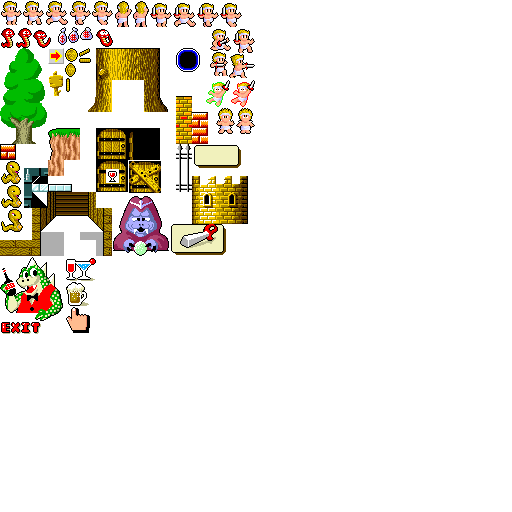
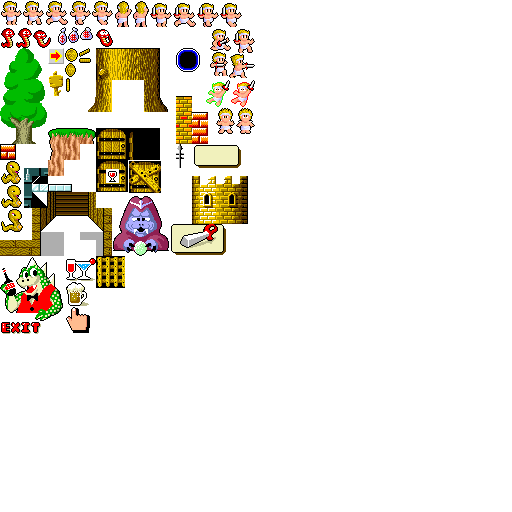
wbml

Changed region(s): [[0.1875, 0.5, 0.25, 0.5625], [0.3438, 0.2812, 0.375, 0.375], [0.1562, 0.25, 0.1875, 0.2812]]

diff --git a/games/wbml/data/scripts.py b/games/wbml/data/scripts.py
@@ -38,16 +38,80 @@ def setup2():
     example.play(s)
     #pane()
 
-def setup3():
+def setup_bar():
+    ra = mopy.monkey.engine.room_args
+    gl = mopy.monkey.engine.data.globals
+    bonus_left = Entity()
+    bonus_left.model = gl.bonus_list[ra[0]]['gfx']
+    bonus_left.pos = (2.5*16, 10.2*16, 0.11)
+    example.get('main').add(bonus_left)
+    bonus_right = Entity()
+    bonus_right.model = gl.bonus_list[ra[2]]['gfx']
+    bonus_right.pos = (9.5*16, 10.2*16, 0.11)
+    example.get('main').add(bonus_right)
+
+
+
+
     from wbml.data.actions import WBM
-    s = Script()
-    s.seq([WBM('$msg/5')])
-    example.play(s)
+
+    # check if player has enough gold to buy items
+    min_cost = min(int(ra[1]), int(ra[3]))
+    if gl.gold < min_cost:
+        s = Script()
+        s.seq([WBM('$msg/8'), act.ChangeRoom('citywl')])
+        example.play(s)
+    else:
+        mopy.monkey.engine.data.globals.pos = [(2, 7.625, 0.1), (5.25, 7.625, 0.1), (9.5, 7.625, 0.1)]
+        mopy.monkey.engine.data.globals.cpos = 1
+        s = Script()
+        s.seq([WBM('$msg/5')])
+        example.play(s)
     #pane()
 
 
-def cazzo():
-    print ('cazzone!?')
+def hand_left():
+    mopy.monkey.engine.data.globals.cpos = max(0,mopy.monkey.engine.data.globals.cpos-1)
+    p = mopy.monkey.engine.data.globals.pos[mopy.monkey.engine.data.globals.cpos]
+    example.get('hand').setPosition(p[0] * 16, p[1] * 16, p[2] * 16)
+
+
+def hand_right():
+    mopy.monkey.engine.data.globals.cpos = min(2,mopy.monkey.engine.data.globals.cpos+1)
+    p = mopy.monkey.engine.data.globals.pos[mopy.monkey.engine.data.globals.cpos]
+    example.get('hand').setPosition(p[0] * 16, p[1] * 16, p[2] * 16)
+
+def hand_select():
+    from wbml.data.actions import WBM
+    gl = mopy.monkey.engine.data.globals
+    selected = mopy.monkey.engine.data.globals.cpos
+    s = Script()
+    if selected == 1:
+        s.seq([act.SetActive(tag='hand', value=False),
+            WBM('$msg/6'), act.SetVariable('globals.start_position', 2), act.ChangeRoom('citywl')])
+    else:
+        bonus_picked = None
+        cost = 0
+        msg = None
+        if selected == 0:
+            bonus_picked = mopy.monkey.engine.room_args[0]
+            cost = int(mopy.monkey.engine.room_args[1])
+            msg = mopy.monkey.engine.room_args[4]
+        else:
+            bonus_picked = mopy.monkey.engine.room_args[2]
+            cost = int(mopy.monkey.engine.room_args[3])
+            msg = mopy.monkey.engine.room_args[5]
+        if mopy.monkey.engine.data.globals.gold >= cost:
+            mopy.monkey.engine.data.globals.gold -= cost
+            bonus =gl.bonus_list[bonus_picked]
+            bonus['callback']()
+            s.seq([
+                act.SetActive(tag='hand', value=False),
+                WBM(msg),
+                act.SetVariable('globals.start_position', 2),
+                act.ChangeRoom('citywl')])
+    example.play(s)
+
 
 def set_warp(player, warp, x, y):
     info = warp.getInfo()
@@ -153,17 +217,20 @@ def pane():
 
 
 def enter_door(x):
-    print('CIAO')
-
     if mopy.monkey.engine.data.globals.active_warp is not None:
         warp_id =mopy.monkey.engine.data.globals.active_warp
         mopy.monkey.engine.data.globals.active_warp = None
         door_info = mopy.monkey.engine.data.globals.doors[warp_id]
         s = Script()
+        args = door_info.get('args',None)
+        print('args=' +str(args))
         s.seq([
             act.SetState(tag='player', state='knock'),
             act.Delay(sec=0.1),
             act.Animate(tag='door_' + str(warp_id), anim='open'),
-            act.ChangeRoom(room=door_info['room'])
+            act.ChangeRoom(room=door_info['room'], args=args)
         ])
         example.play(s)
+
+def panepippo():
+    print('ciao')

diff --git a/src/monkey/model/factory.cpp b/src/monkey/model/factory.cpp
@@ -95,36 +95,63 @@ std::shared_ptr<Model> ModelFactory::_tiled(const ITab & t) {
     auto data = t.get<std::vector<int>>("data");
     size_t n = 0;
     size_t v = 0;
-    for (int j = 0; j < size[1]; ++j) {
-        for (int i = 0; i < size[0]; ++i) {
-            if (data[n] == -1) {
-                n += 1;
-                continue;
-            }
-            bool fliph = false;
-            if (data[n] == -2) {
-                // flip horizontally next tile
-                n++;
-                fliph = true;
-
-            }
-            float tx0 = data[n] * tw;
-            float tx1 = (data[n] + 1) * tw;
-            if (fliph) std::swap(tx0, tx1);
-            verts.emplace_back(i * tileWidth, j * tileHeight, 0, tx0, (data[n+1] + 1) * th, 1, 1, 1, 1);
-            verts.emplace_back((i+1) * tileWidth, j * tileHeight, 0, tx1, (data[n+1] +1) * th, 1, 1, 1, 1);
-            verts.emplace_back((i+1) * tileWidth, (j + 1) * tileHeight, 0, tx1, data[n+1] * th, 1, 1, 1, 1);
-            verts.emplace_back(i * tileWidth, (j+1) * tileHeight, 0, tx0, data[n+1] * th, 1, 1, 1, 1);
-            indices.push_back(v);
-            indices.push_back(v+1);
-            indices.push_back(v+2);
-            indices.push_back(v+2);
-            indices.push_back(v+3);
-            indices.push_back(v);
-            v += 4;
-            n += 2;
+    //for (int j = 0; j < size[1]; ++j) {
+    //    for (int i = 0; i < size[0]; ++i) {
+    int i = 0;
+    int j = 0;
+    int count = 0;
+    int tileCount = size[0] * size[1];
+    while (count < tileCount) {
+    	if (data[n] == -1) {
+        	n += 1;
+        	count++;
+			i++;
+			if (i >= size[0]) {
+				i = 0;
+				j++;
+			}
+            continue;
+    	}
+        bool fliph = false;
+        int repeat = 1;
+        if (data[n] == -2) {
+        	// flip horizontally next tile
+           	n++;
+           	fliph = true;
         }
+
+        if (data[n] == -3) {
+          	n++;
+           	repeat = data[n++];
+        }
+
+        for (int k = 0; k < repeat; k++) {
+			float tx0 = data[n] * tw;
+			float tx1 = (data[n] + 1) * tw;
+			if (fliph) std::swap(tx0, tx1);
+			verts.emplace_back(i * tileWidth, j * tileHeight, 0, tx0, (data[n + 1] + 1) * th, 1, 1, 1, 1);
+			verts.emplace_back((i + 1) * tileWidth, j * tileHeight, 0, tx1, (data[n + 1] + 1) * th, 1, 1, 1, 1);
+			verts.emplace_back((i + 1) * tileWidth, (j + 1) * tileHeight, 0, tx1, data[n + 1] * th, 1, 1, 1, 1);
+			verts.emplace_back(i * tileWidth, (j + 1) * tileHeight, 0, tx0, data[n + 1] * th, 1, 1, 1, 1);
+			indices.push_back(v);
+			indices.push_back(v + 1);
+			indices.push_back(v + 2);
+			indices.push_back(v + 2);
+			indices.push_back(v + 3);
+			indices.push_back(v);
+			v += 4;
+			// increase x
+			i++;
+			if (i >= size[0]) {
+				i = 0;
+				j++;
+			}
+			count++;
+        }
+        n += 2;
+
     }
+
     mesh->Init(verts, indices);
     return std::make_shared<Model>(mesh);
 

diff --git a/games/wbml/data/factories.py b/games/wbml/data/factories.py
@@ -189,9 +189,12 @@ def bg(args):
 
 def trunk(args):
     door = args.get('door')
+    model = args.get('model', 'model.trunk')
+    width = args.get('width', 6)
+    xs = (width - 4)/2
     tag= 'door_' + str(door)
     e = Entity()
-    e.model = 'model.trunk'
+    e.model = model
     door_info = mopy.monkey.engine.data.globals.doors[door]
     if door_info['open'] == 1:
         anim = door_info['anim']
@@ -201,11 +204,11 @@ def trunk(args):
         'type': '_line',
         'size': [4, 0],
         'pass_thru': True},
-        [1, 4]))
+        [xs, 4]))
 
 
     e.children.append(build_entity({
-        'type': 'bg', 'model': 'sprites.door', 'anim': anim, 'tag': tag}, [2, 0, 0]))
+        'type': 'bg', 'model': 'sprites.door', 'anim': anim, 'tag': tag}, [xs + 1, 0, 0]))
     # check if door is available
     if door_info['open'] == 1:
         coll = Entity()
@@ -216,7 +219,7 @@ def trunk(args):
             mask=mopy.monkey.engine.data.globals.CollisionFlags.player,
             tag=mopy.monkey.engine.data.globals.CollisionTags.door,
             debug=True))
-        coll.pos =[2.5*16, 0, 0]
+        coll.pos =[(xs + 1.5)*16, 0, 0]
         coll.add_component(Info(door_id=door))
 
         e.children.append(coll)

diff --git a/games/mopy/engine.py b/games/mopy/engine.py
@@ -217,10 +217,11 @@ class Engine:
 
     def create_room(self):
         filename = example.dir + '/rooms/' + self.room + '.yaml'
+        print('args=' + str(self.room_args))
         try:
             with open(filename) as f:
                 room2 = yaml.load(f, Loader=yaml.FullLoader)
-                room = mopy.monkey.engine.repl_vars(room2)
+                room = mopy.monkey.engine.repl_vars(room2, self.room_args)
                 rt = room['type']
                 if 'on_start' in room:
                     getattr(self.scripts, room['on_start'])()
@@ -372,6 +373,7 @@ class Engine:
     frame_time = 0.1
     title = ''
     room = ''
+    room_args = None
     previous_room = ''
     lang = ''
     taggen = 0

diff --git a/games/wbml/data/globals.py b/games/wbml/data/globals.py
@@ -3,6 +3,7 @@ import data.scripts as scripts
 
 tiled_pos = True
 tile_size = [16, 16]
+gold = 200
 jump_height = 96
 time_to_jump_apex = 0.5
 a = utils.compute_gravity(jump_height, time_to_jump_apex)
@@ -66,7 +67,12 @@ collision_engine = {
 
 doors = {
     0: {'open': 1, 'anim': 'closed', 'room': 'pippo'},
-    1: {'open': 1, 'anim': 'bar', 'room': 'bar'}
+    1: {'open': 1, 'anim': 'bar', 'room': 'bar', 'args': ['cocktail', '18', 'beer', '25', '$msg/7', '$msg/10']}
+}
+
+bonus_list = {
+    'cocktail': {'gfx': 'sprites.cocktail', 'callback': scripts.panepippo},
+    'beer': {'gfx': 'sprites.beer', 'callback': scripts.panepippo},
 }
 
 room0 = 0

diff --git a/src/monkey/activities/changeroom.cpp b/src/monkey/activities/changeroom.cpp
@@ -5,6 +5,7 @@
 
 ChangeRoom::ChangeRoom(const ITab & t) : Activity() {
     m_roomId = t.get<std::string>("room");
+    m_args = t.get<pybind11::object>("args", pybind11::none());
 }
 
 
@@ -14,6 +15,7 @@ void ChangeRoom::Start() {
     auto oldRoom = t.get<std::string>("room");
     auto obj = t.as<pybind11::object>();
     obj.attr("room") =  m_roomId;
+    obj.attr("room_args") = m_args;
     obj.attr("previous_room") = oldRoom;
 //    luabridge::LuaRef ref = LuaWrapper::GetGlobalPath({"engine","state"});
 //    std::string oldRoom = ref["room"].cast<std::string>();

diff --git a/games/mopy/factories/items.py b/games/mopy/factories/items.py
@@ -21,12 +21,14 @@ def text(ciao):
     font = ciao['font']
     size = ciao['size']
     text = ciao['text']
+    mode = ciao.get('mode', 0)
+    shade_color = ciao.get('shade_color', None)
     format = ciao.get('format')
     if format:
         text = format(text)
     color = ciao.get('color', (1, 1, 1, 1))
     align = TextAlignment[ciao.get('align')]
-    txt = Text(font, size, text, color, align)
+    txt = Text(font, size, text, color, align, mode=mode, shade_color=shade_color)
     txt.tag = ciao.get('tag')
     return txt
 

diff --git a/games/mopy/actions.py b/games/mopy/actions.py
@@ -49,9 +49,10 @@ class KillScript:
 
 
 class ChangeRoom:
-    def __init__(self, room: str):
+    def __init__(self, room: str, args=None):
         self.type = 'action.changeroom'
         self.room = room
+        self.args = args
 
 
 class RestartRoom:

diff --git a/include/monkey/activities/changeroom.h b/include/monkey/activities/changeroom.h
@@ -12,4 +12,5 @@ public:
     void Run (float dt) override {}
 private:
     std::string m_roomId;
+    pybind11::object m_args;
 };
